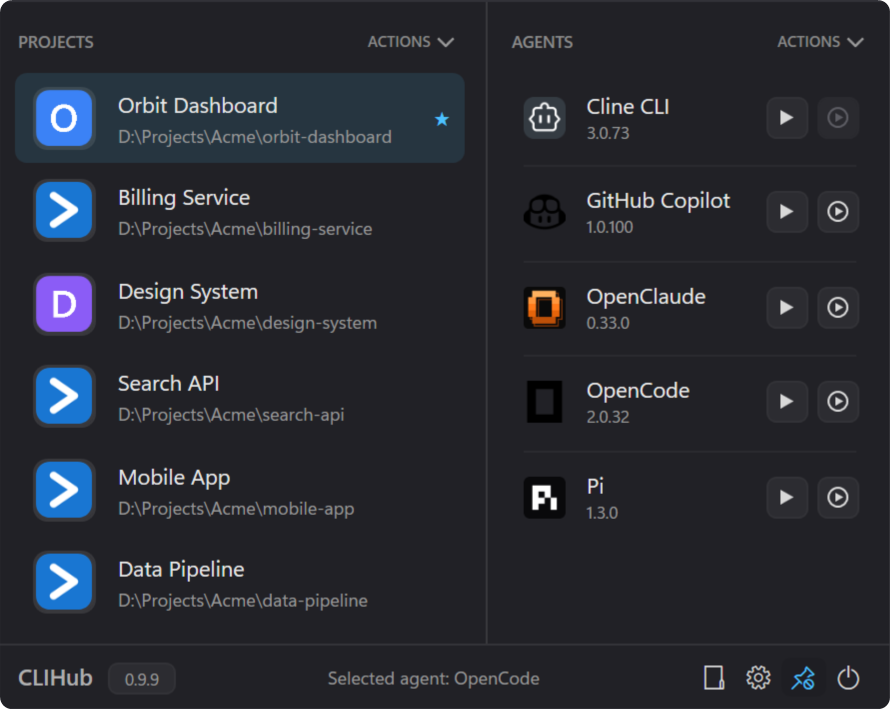
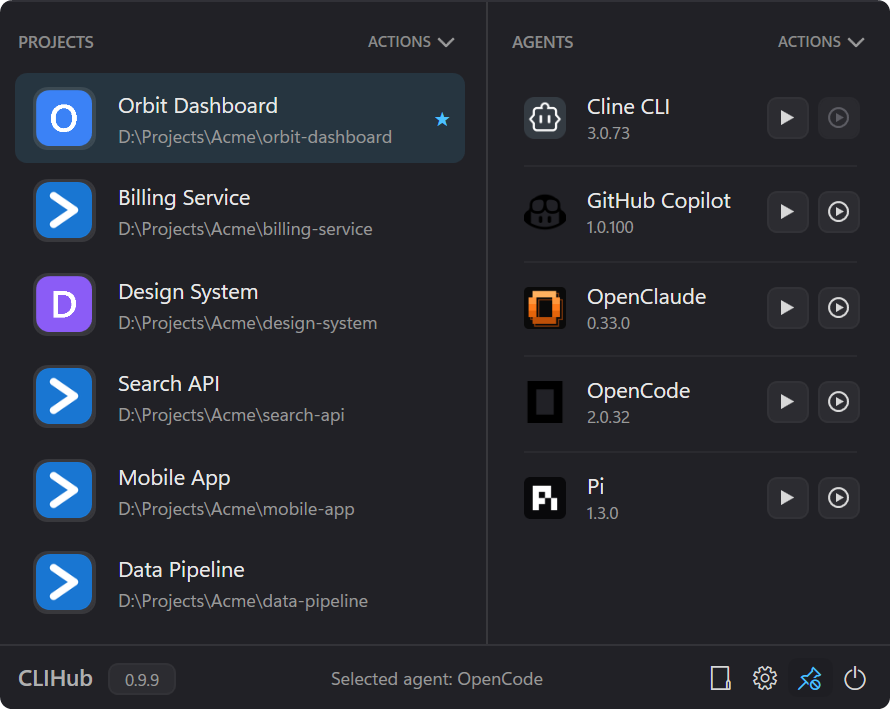
fix(ui): align footer insets and the version chip

diff --git a/src/CLIHub/Views/SettingsWindow.xaml b/src/CLIHub/Views/SettingsWindow.xaml
@@ -510,26 +510,36 @@
                     <Grid.ColumnDefinitions>
                         <ColumnDefinition Width="*"/>
                         <ColumnDefinition Width="Auto"/>
-                        <ColumnDefinition Width="Auto"/>
                     </Grid.ColumnDefinitions>
-                    <StackPanel Grid.Column="0" Orientation="Horizontal" VerticalAlignment="Center">
-                        <TextBlock Style="{StaticResource BrandText}" Text="CLIHub"/>
-                        <Border Margin="8,0,0,0"
+                    <StackPanel Grid.Column="0"
+                                Margin="{StaticResource Sizing.Footer.BrandMargin}"
+                                Orientation="Horizontal"
+                                UseLayoutRounding="True"
+                                VerticalAlignment="Center">
+                        <TextBlock Style="{StaticResource BrandText}"
+                                   Text="CLIHub"
+                                   VerticalAlignment="Center"/>
+                        <Border Margin="{StaticResource Sizing.Footer.VersionChipMargin}"
                                 VerticalAlignment="Center"
                                 Style="{StaticResource VersionChipBorder}">
-                            <TextBlock Style="{StaticResource VersionChipText}" Text="{Binding Version}"/>
+                            <TextBlock Style="{StaticResource VersionChipText}"
+                                       Text="{Binding Version}"
+                                       VerticalAlignment="Center"/>
                         </Border>
                     </StackPanel>
-                    <Button Grid.Column="1"
-                            Command="{Binding SaveCommand}"
-                            Content="Save"
-                            IsDefault="True"
-                            Margin="0,0,10,0"
-                            Style="{StaticResource AccentButton}"/>
-                    <Button Grid.Column="2"
-                            Command="{Binding CancelCommand}"
-                            Content="Cancel"
-                            Style="{StaticResource NeutralButton}"/>
+                    <StackPanel Grid.Column="1"
+                                Margin="{StaticResource Sizing.Footer.ActionsMargin}"
+                                Orientation="Horizontal"
+                                VerticalAlignment="Center">
+                        <Button Command="{Binding SaveCommand}"
+                                Content="Save"
+                                IsDefault="True"
+                                Margin="0,0,10,0"
+                                Style="{StaticResource AccentButton}"/>
+                        <Button Command="{Binding CancelCommand}"
+                                Content="Cancel"
+                                Style="{StaticResource NeutralButton}"/>
+                    </StackPanel>
                 </Grid>
             </Border>
         </Grid>

diff --git a/src/CLIHub/Themes/Sizing.xaml b/src/CLIHub/Themes/Sizing.xaml
@@ -51,6 +51,15 @@
 
     <!-- Window chrome and panes -->
     <sys:Double x:Key="Sizing.Footer.Height">42</sys:Double>
+    <!--
+        Footer insets shared by the launch and Settings windows: the brand block starts at the
+        same left edge and the action block ends at the same right edge in both footers. The
+        Settings version chip is optically lowered by 2 DIP against the brand label.
+    -->
+    <Thickness x:Key="Sizing.Footer.BrandMargin">12,0,0,0</Thickness>
+    <Thickness x:Key="Sizing.Footer.ActionsMargin">0,0,8,0</Thickness>
+    <Thickness x:Key="Sizing.Footer.VersionChipMargin">8,2,0,0</Thickness>
+    <Thickness x:Key="Sizing.Footer.VerticalPadding">0,10</Thickness>
     <Thickness x:Key="Sizing.Pane.Margin">10</Thickness>
     <sys:Double x:Key="Sizing.PaneHeader.Height">32</sys:Double>
     <Thickness x:Key="Sizing.PaneHeader.Margin">0,0,0,4</Thickness>

diff --git a/src/CLIHub/Views/LaunchWindow.xaml b/src/CLIHub/Views/LaunchWindow.xaml
@@ -369,7 +369,7 @@
                 </Grid.ColumnDefinitions>
 
                 <StackPanel Grid.Column="0"
-                            Margin="12,0,0,0"
+                            Margin="{StaticResource Sizing.Footer.BrandMargin}"
                             VerticalAlignment="Center"
                             Orientation="Horizontal">
                     <TextBlock Style="{StaticResource BrandText}" Text="CLIHub"/>
@@ -394,7 +394,7 @@
                            TextTrimming="CharacterEllipsis"/>
 
                 <StackPanel Grid.Column="3"
-                            Margin="0,0,12,0"
+                            Margin="{StaticResource Sizing.Footer.ActionsMargin}"
                             VerticalAlignment="Center"
                             Orientation="Horizontal">
                     <Button Command="{Binding OpenDataFolderCommand}"

diff --git a/src/CLIHub/Themes/SettingsStyles.xaml b/src/CLIHub/Themes/SettingsStyles.xaml
@@ -97,7 +97,7 @@
         <Setter Property="Background" Value="{DynamicResource StripBgBrush}"/>
         <Setter Property="BorderBrush" Value="{DynamicResource HairlineBrush}"/>
         <Setter Property="BorderThickness" Value="0,1,0,0"/>
-        <Setter Property="Padding" Value="20,10"/>
+        <Setter Property="Padding" Value="{StaticResource Sizing.Footer.VerticalPadding}"/>
     </Style>
 
     <!-- Sidebar navigation -->

diff --git a/docs/backlog.md b/docs/backlog.md
@@ -346,6 +346,21 @@ file during `/pipe-resume`; do not re-derive parked work from conversation histo
   disposing the subscription with the application.
 - Trigger: a user report that switching Windows to dark leaves CLIHub light until restart.
 
+### Unversioned README screenshot capture harness
+
+- Severity: Low (reproducibility)
+- Evidence: the 0.9.9 README refresh used an ad-hoc PowerShell harness kept only in `%TEMP%`
+  (`capture-final.ps1`): it seeds `%APPDATA%\CLIHub\config.json` with a throwaway workspace, opens
+  Settings through UI Automation, captures with `CopyFromScreen`, crops the 2 px ring, applies the
+  12 px mask, and restores the config. `PrintWindow` intermittently returned black frames on
+  2026-10-23, which is why the screen-copy path was added. `docs/images/README.md` records only the
+  manual attributes (150% scaling, crop, mask), not the harness.
+- Proposed remedy: commit a sanitized script under `docs/images/tools/` with parameters for the mock
+  workspace and output directory, an explicit backup/restore of the user configuration, a
+  black-frame retry, and a guard against overwriting `%APPDATA%\CLIHub`; alternatively extend
+  `docs/images/README.md` with the exact automation steps.
+- Trigger: the next README screenshot refresh.
+
 ### Accent precedence across a live palette switch (resolved)
 
 - Status: Resolved by the `accent-independent-of-theme` change (2026-10-23). Formerly parked as

diff --git a/docs/architecture/ui.md b/docs/architecture/ui.md
@@ -58,6 +58,14 @@ sidebar, drawn window chrome, validation message, and footer stay visible while 
 views (`Settings*Page.xaml`) contain only their scrolling settings content; the title and description live
 in the `SettingsPage` metadata exposed through `SelectedPage`.
 
+## Footer Insets
+
+The launch and Settings footers share their horizontal insets: the brand block starts 12 DIP from
+the left edge and the action block ends 8 DIP from the right edge. Both windows read
+`Sizing.Footer.BrandMargin` and `Sizing.Footer.ActionsMargin` from `Sizing.xaml`; do not reintroduce
+literal margins. The Settings version chip adds `Sizing.Footer.VersionChipMargin`, which lowers it
+2 DIP against the brand label for optical alignment.
+
 ## Adding a Settings Page
 
 1. Add a `views:Settings<Name>Page` `UserControl` containing only its scrolling settings content,
